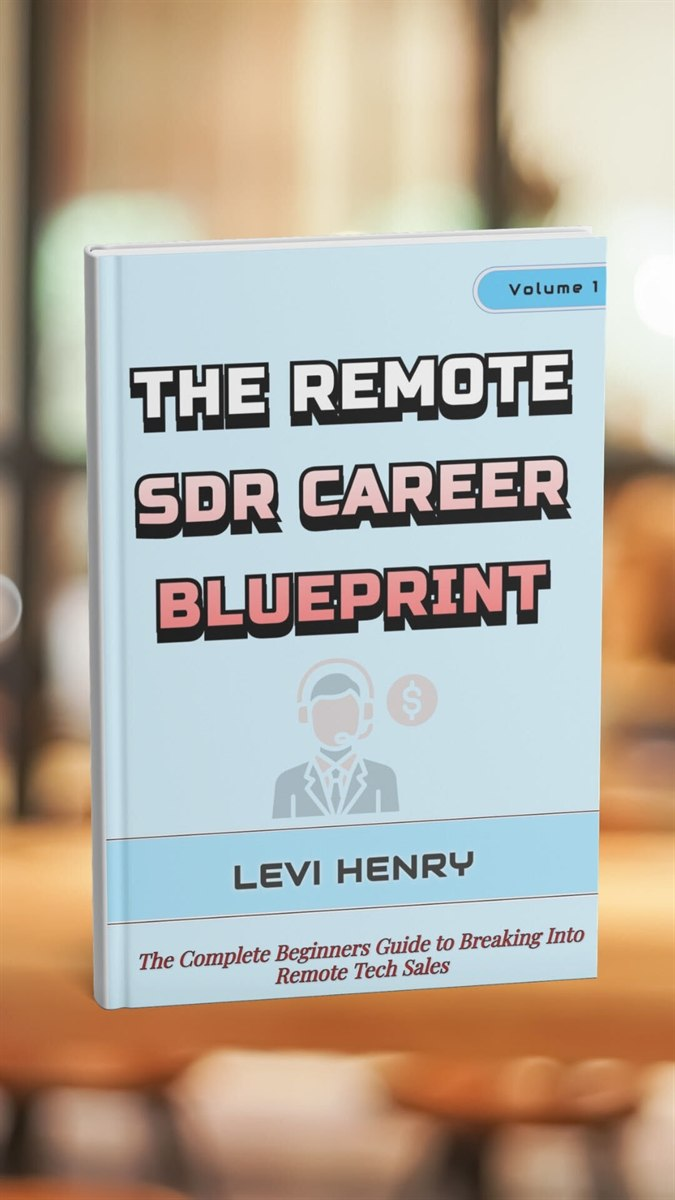
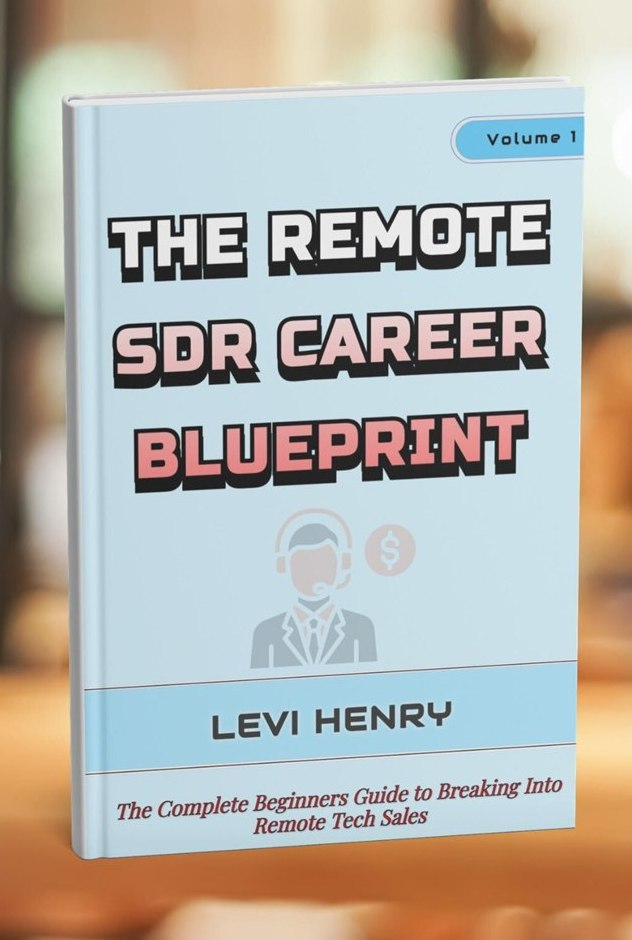
Fix stretched book cover on Individuals
Crop the SDR blueprint mockup tighter, size the book/course covers down
to matching thumbnails, and pin the book's aspect-ratio/object-fit so it
no longer renders vertically stretched.

diff --git a/individuals.html b/individuals.html
@@ -79,7 +79,7 @@
       <section class="divider">
         <div class="wrap">
           <div class="resource reveal">
-            <img src="assets/photos/book-sdr-blueprint.jpg" alt="The Remote SDR Career Blueprint by Levi Henry" width="675" height="1200" loading="lazy" />
+            <img src="assets/photos/book-sdr-blueprint.jpg" alt="The Remote SDR Career Blueprint by Levi Henry" width="632" height="940" loading="lazy" style="aspect-ratio: 632 / 940; object-fit: cover; height: auto;" />
             <div>
               <p class="kicker">Start here</p>
               <h2>The Remote SDR Career Blueprint</h2>
@@ -103,7 +103,7 @@
         <div class="wrap">
           <div class="resource reveal">
             <div
-              style="width:100%; max-width:280px; aspect-ratio:3/4; border-radius:4px; background:linear-gradient(160deg, var(--navy), var(--navy-deep)); color:#fff; display:flex; flex-direction:column; justify-content:space-between; padding:1.5rem; box-shadow:var(--shadow); justify-self:center;"
+              style="width:100%; max-width:215px; aspect-ratio:2/3; border-radius:4px; background:linear-gradient(160deg, var(--navy), var(--navy-deep)); color:#fff; display:flex; flex-direction:column; justify-content:space-between; padding:1.4rem; box-shadow:var(--shadow); justify-self:center;"
             >
               <span style="font-family:var(--sans); font-weight:700; font-size:0.7rem; letter-spacing:0.14em; text-transform:uppercase; color:var(--brass-soft);">Preorder</span>
               <span style="font-family:var(--serif); font-size:1.55rem; line-height:1.15;">The Remote SDR Skills Acquisition Course</span>

diff --git a/styles.css b/styles.css
@@ -493,7 +493,7 @@ section { padding-block: var(--section-y); }
 
 /* book / resource card */
 .resource { display: grid; grid-template-columns: 0.8fr 1.2fr; gap: clamp(1.5rem, 4vw, 3rem); align-items: center; background: var(--paper); border: 1px solid var(--line); border-radius: 6px; padding: clamp(1.5rem, 4vw, 3rem); }
-.resource img { width: 100%; max-width: 280px; border-radius: 4px; box-shadow: var(--shadow); justify-self: center; }
+.resource img { width: 100%; max-width: 215px; border-radius: 4px; box-shadow: var(--shadow); justify-self: center; }
 @media (max-width: 700px) { .resource { grid-template-columns: 1fr; text-align: center; } .resource img { max-width: 200px; } }
 
 /* ---------- contact ---------- */
